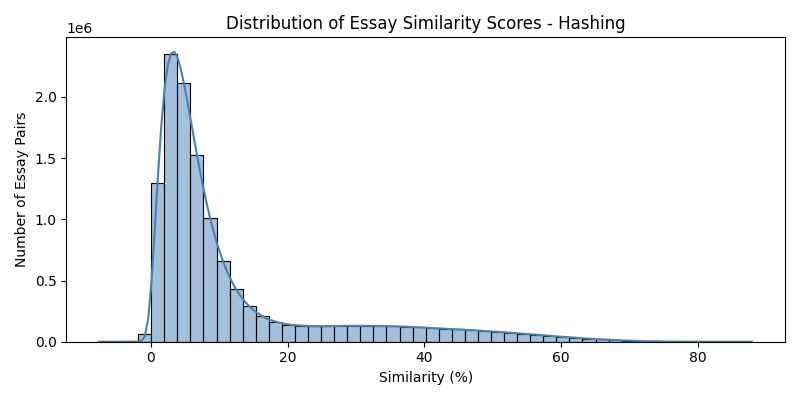
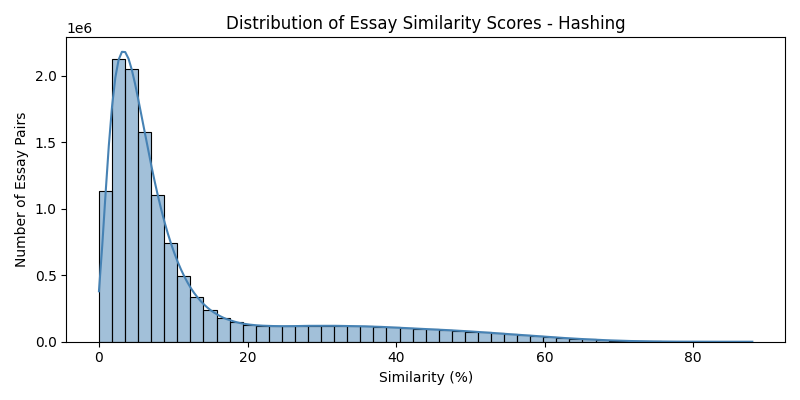
Final changes like adding code to find the five least similar pairs for each method, generating graphs for each technique, and fixing method 3.

diff --git a/nlp_project/utils.py b/nlp_project/utils.py
@@ -31,10 +31,10 @@ def load_and_preprocess(filepath, sample_n=None):
     print("Normalizing and cleaning text...")
     df_cleaned['full_text'] = (
         df_cleaned['full_text']
-        .str.lower()
-        .str.replace(r'[^a-z\s]', '', regex=True)
-        .str.replace(r'\s+', ' ', regex=True)
-        .str.strip()
+        .str.lower() # convert to lowercase
+        .str.replace(r'[^a-z\s]', '', regex=True) # remove punctuation/numbers
+        .str.replace(r'\s+', ' ', regex=True)  # collapse multiple spaces
+        .str.strip() # trim leading/trailing spaces
     )
     
     print(f"Final processed shape: {df_cleaned.shape}")
@@ -105,9 +105,12 @@ def calculate_similarity_hashing(df):
     # n_features is the number of "buckets" to hash into.
     # 2**18 (262,144) is a common, large-enough size to reduce
     # the chance of "collisions".
-    vectorizer = HashingVectorizer(stop_words='english',
-                                   lowercase=True,
-                                   n_features=2 ** 18)
+    vectorizer = HashingVectorizer(
+        stop_words='english',
+        lowercase=True,
+        n_features=2 ** 20,  # 1,048,576 buckets instead of 262,144
+        alternate_sign=False   # Fix negative similarities
+    )
 
     print("Fitting and transforming text data (this may take a moment)...")
 
@@ -151,6 +154,50 @@ def find_top_pairs(sim_matrix, df, top_n=5):
         # Get the original essay info
         essay_1_id = df.loc[row, 'essay_id']
         essay_1_text = df.loc[row, 'full_text'][:100] + "..." # Get 1-line preview
+
+        essay_2_id = df.loc[col, 'essay_id']
+        essay_2_text = df.loc[col, 'full_text'][:100] + "..."
+
+        results.append({
+            "score": round(similarity_score * 100, 2),
+            "essay_1_id": essay_1_id,
+            "essay_2_id": essay_2_id,
+            "essay_1_preview": essay_1_text,
+            "essay_2_preview": essay_2_text
+        })
+
+        print(f"\nSimilarity Score: {similarity_score * 100:.2f}%")
+        print(f"  Essay 1 ID: {essay_1_id}")
+        print(f"  Preview 1: {essay_1_text}")
+        print(f"  Essay 2 ID: {essay_2_id}")
+        print(f"  Preview 2: {essay_2_text}")
+
+    return results
+
+def find_bottom_pairs(sim_matrix, df, bottom_n=5):
+    """
+    Finds the bottom_n least similar pairs, ignoring self-comparisons.
+    """
+    print(f"\nFinding bottom {bottom_n} least similar pairs...")
+
+    upper_triangle = np.triu(sim_matrix, k=1)
+
+    # Replace zeros with +inf to avoid selecting empty similarities if needed
+    # (useful if many essays share no vocabulary)
+    masked = np.ma.masked_equal(upper_triangle, 0)
+
+    # Get the smallest values (least similar)
+    flat_indices = np.argsort(masked.flatten())[:bottom_n]
+
+    bottom_pairs_indices = [np.unravel_index(i, upper_triangle.shape)
+                            for i in flat_indices]
+
+    results = []
+    for row, col in bottom_pairs_indices:
+        similarity_score = sim_matrix[row, col]
+
+        essay_1_id = df.loc[row, 'essay_id']
+        essay_1_text = df.loc[row, 'full_text'][:100] + "..."
 
         essay_2_id = df.loc[col, 'essay_id']
         essay_2_text = df.loc[col, 'full_text'][:100] + "..."

diff --git a/nlp_project/top_pairs.py b/nlp_project/top_pairs.py
@@ -1,10 +1,11 @@
 import pandas as pd
 import numpy as np
 from utils import (load_and_preprocess, calculate_similarity_method1_bow, calculate_similarity_tfidf,
-                   calculate_similarity_hashing, get_top_pairs)
+                   calculate_similarity_hashing, find_bottom_pairs, get_top_pairs)
 import time
 import matplotlib.pyplot as plt
 import seaborn as sns
+import gc
 
 if __name__ == "__main__":
     SAMPLE_SIZE = 5000
@@ -26,6 +27,7 @@ if __name__ == "__main__":
             print(f"\nRunning {name}...")
             start_time = time.time()
             count_matrix, similarity_matrix, top_pairs = get_top_pairs(method, processed_df, top_n=5)
+            bottom_pairs = find_bottom_pairs(similarity_matrix, processed_df, bottom_n=5)
             end_time = time.time()
             execution_times[name] = end_time - start_time
             print(f"{name} took {execution_times[name]:.2f} seconds.")
@@ -53,6 +55,11 @@ if __name__ == "__main__":
             plt.tight_layout()
             plt.savefig(f"similarity_top_pairs_{name}.png")  # saves chart for your report
             plt.show()
+            
+            # Clean RAM Between Methods
+            del similarity_matrix
+            del count_matrix
+            gc.collect()
         
         # Visualize Execution Times
         plt.figure(figsize=(6, 4))
